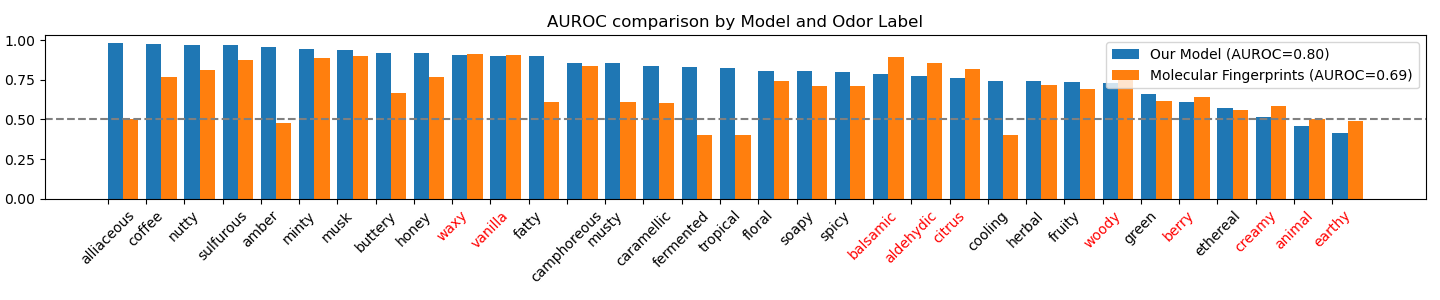
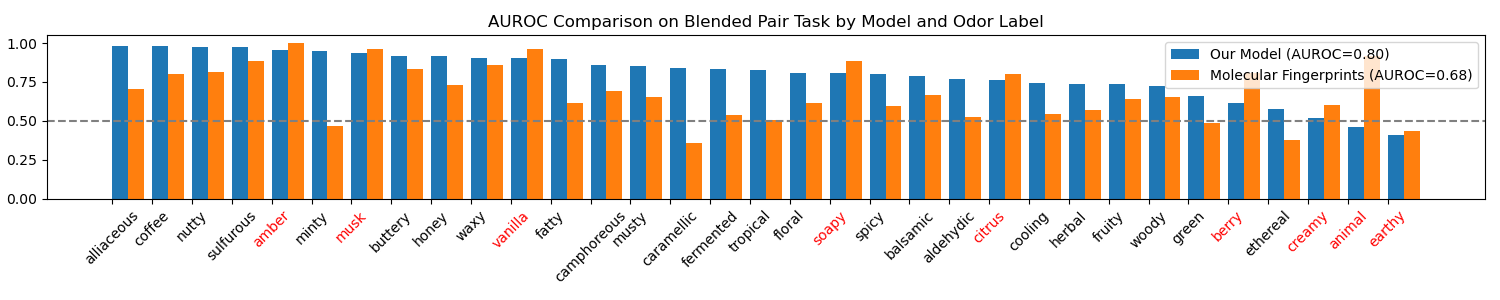
Changing model for logistic regression

diff --git a/analysis/auroc.py b/analysis/auroc.py
@@ -12,7 +12,7 @@ def get_score(pred, y):
     return np.mean(auroc(pred,y.int()).numpy())
 
 # Sorted based on first input
-def make_dual_chart(pred1,y1,label1,pred2,y2,label2):
+def make_dual_chart(title,pred1,y1,label1,pred2,y2,label2):
     all_notes = np.array(pairing.data.get_all_notes())
     auroc = torchmetrics.classification.MultilabelAUROC(Dataset.num_classes(),average=None)
     
@@ -33,7 +33,7 @@ def make_dual_chart(pred1,y1,label1,pred2,y2,label2):
     plt.legend([f"{label1} (AUROC={np.mean(scores1):.2f})",f"{label2} (AUROC={np.mean(scores2):.2f})"])
     plt.axhline(y=0.5,color='grey',linestyle='dashed')
     plt.xticks(ticks=idxs,labels=all_notes,rotation=45)
-    plt.title("AUROC comparison by Model and Odor Label")
+    plt.title(title)
     plt.tight_layout()
 
     for ticklabel in plt.gca().get_xticklabels():

diff --git a/single/embedding.py b/single/embedding.py
@@ -6,9 +6,9 @@ import torch_geometric as pyg
 import torch
 import numpy as np
 import torchmetrics
+import analysis.fingerprint
 import analysis.auroc
 import single.map
-import single.model
 
 def collate(model,dataset):
     loader = pyg.loader.DataLoader(dataset,batch_size=32)
@@ -35,7 +35,7 @@ def get_test_pred_y():
     train_embed, train_y = collate(model,train)
     test_embed, test_y = collate(model,test)
 
-    lgr = single.model.LogitRegression().fit(train_embed,train_y)
+    lgr = analysis.fingerprint.LogitRegression().fit(train_embed,train_y)
 
     tensor_pred = torch.tensor(lgr.predict(test_embed))
     tensor_y = torch.tensor(test_y)

diff --git a/pairing/comparison.py b/pairing/comparison.py
@@ -47,9 +47,9 @@ def make_chart(count=None):
 
     pred1, y1 = analysis.best.collate_test()
     pred2, y2 = analysis.fingerprint.get_test_pred_y(train_embed, train_y, test_embed, test_y)
-    analysis.auroc.make_dual_chart(pred1,y1,"Our Model",pred2,y2,"Molecular Fingerprints")
+    analysis.auroc.make_dual_chart("AUROC Comparison on Blended Pair Task by Model and Odor Label",pred1,y1,"Our Model",pred2,y2,"Molecular Fingerprints")
 
 
 if __name__ == "__main__":
-    optimize()
+    make_chart()
     

diff --git a/single/comparison.py b/single/comparison.py
@@ -44,7 +44,7 @@ def make_chart(count=None):
     pred1,y1 = single.embedding.get_test_pred_y()
     pred2, y2 = analysis.fingerprint.get_test_pred_y(train_embed, train_y, test_embed, test_y)
 
-    analysis.auroc.make_dual_chart(pred1,y1,"Our Model",pred2,y2,"Molecular Fingerprints")
+    analysis.auroc.make_dual_chart("AUROC Comparison on Single Molecule Task by Model and Odor Label",pred1,y1,"Our Model",pred2,y2,"Molecular Fingerprints")
 
 if __name__ == "__main__":
     make_chart(None)

diff --git a/analysis/fingerprint.py b/analysis/fingerprint.py
@@ -10,7 +10,7 @@ import random
 import scipy.stats
 import analysis.auroc
 
-class LogitRegression(sklearn.linear_model.LinearRegression):
+class LogitRegression(sklearn.linear_model.RidgeCV):
     EPS = 1e-5
 
     def __init__(self):
